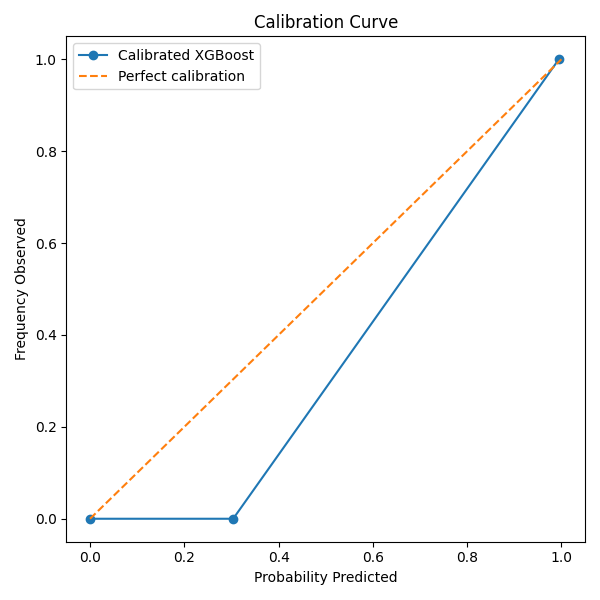
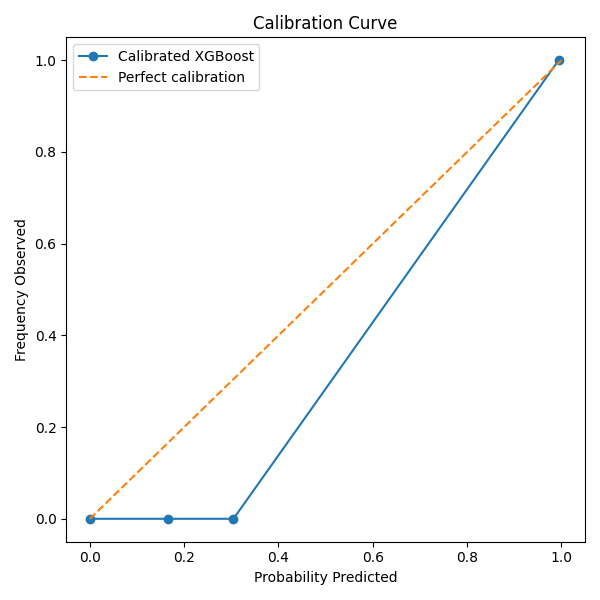
refactored some stuff in build.py and model_training.py. Flake Flagger_static incremnes thresholds on runs choosing whatever one gives the best f1 score all other test are ran at 99%. Not mUch else was done just built of moriahs work codes pretty messy so will prob just pull features from here and a

diff --git a/src/features/build.py b/src/features/build.py
@@ -58,7 +58,7 @@ df["FunctionNameLength"] = df["Function"].apply(len)
 df["PackageLength"] = df["Class"].apply(lambda x: x.count("."))
 
 # -- keywords in function names -- # 
-# moriah - I might have missed a few keywords for each, if so, feel free to add
+
 
 df["SleepOrWaitInFunction"] = df["Function"].apply(
     lambda x: 1 if any(word in x.lower() for word in ["sleep", "wait", "delay", "timeout"]) else 0)
